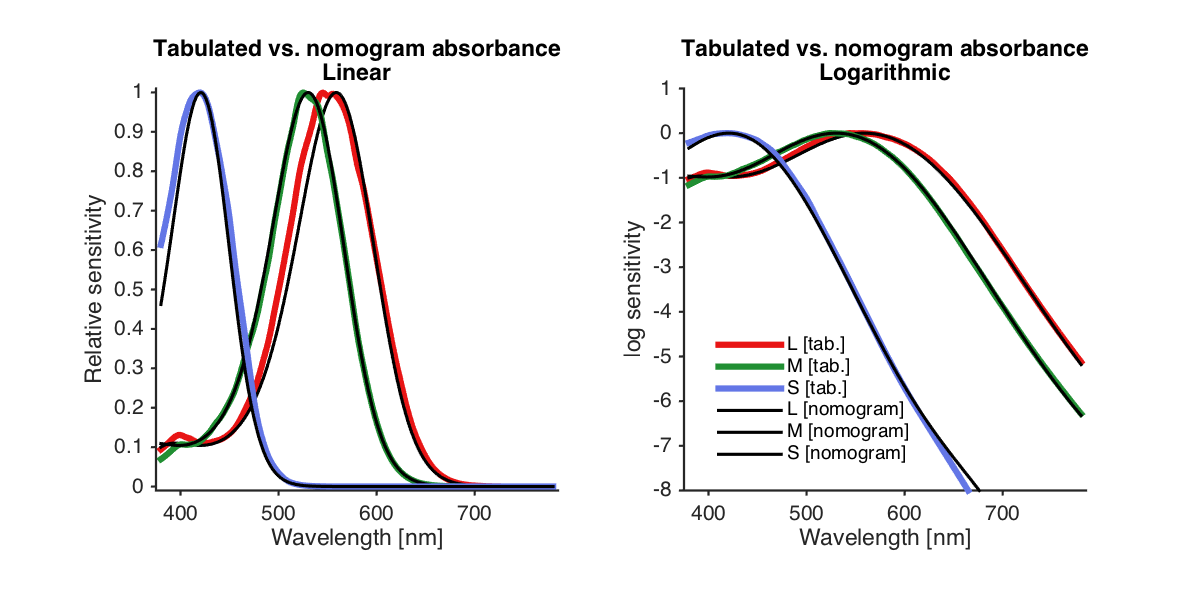
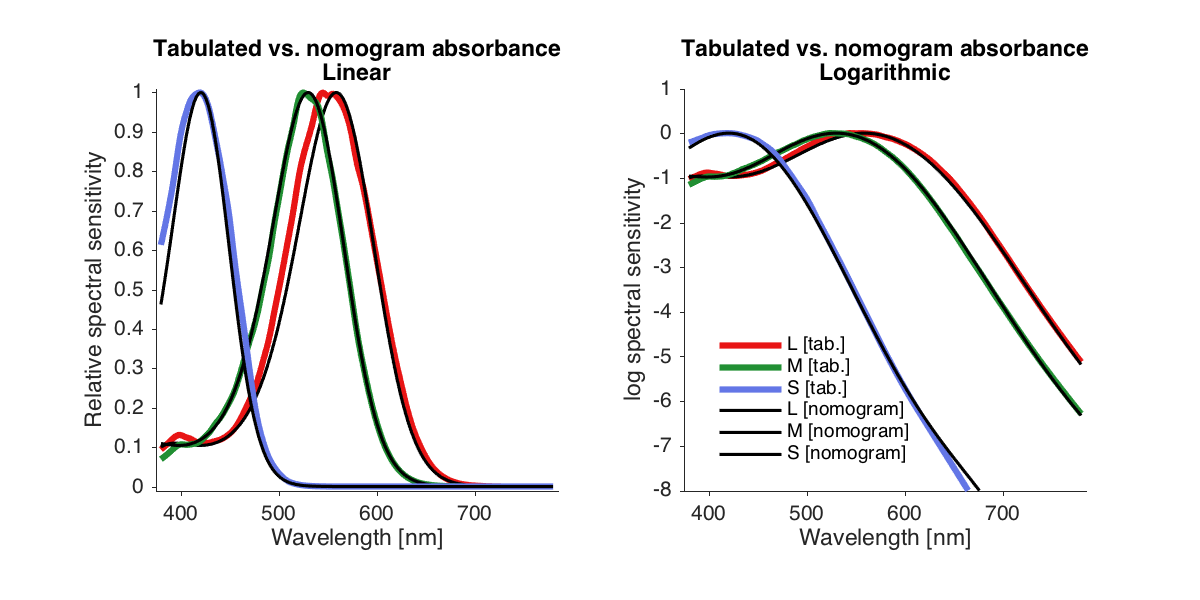
A few tweaks

diff --git a/Nomograms/ShiftNomogramTest.m b/Nomograms/ShiftNomogramTest.m
@@ -9,7 +9,7 @@ S = [380 2 201]; wls = SToWls(S);
 
 %% Stockman-Sharpe tabulated vs. nomogram
 % Check accordance of tabulated Stockman-Sharpe pigment absorbance and
-% fitted nomogram. The second panel corresponds to Fig. 21 in Stockman &
+% fitted nomogram. The second panel corresponds to Fig. 12 in Stockman &
 % Sharpe (2000).
 
 % Get Stockman-Sharpe tabulated absorbance
@@ -43,14 +43,17 @@ end
 pbaspect([1 1 1]);
 set(gca, 'TickDir', 'out'); box off;
 xlim([375 785]); ylim([-0.01 1.01]);
-xlabel('Wavelength [nm]'); ylabel('Relative sensitivity');
+xlabel('Wavelength [nm]'); ylabel('Relative spectral sensitivity');
 title({'Tabulated vs. nomogram absorbance' 'Linear'});
 
-% Compare this one with Stockman & Sharpe 2000, Figure 12.  The deviation
+% Compare this one with Stockman & Sharpe (2000), Fig. 12.  The deviation
 % looks a little larger here but their plot has those huge points which
 % make it hard to see the differences.  Note that in our tabular S cone
 % absorbance, we linear extrapolate at long wavelengths just to keep code
-% from crashing when it doesn't find the wavelength sampling acorss cones.
+% from crashing when it doesn't find the wavelength sampling across cones.
+%
+% Note that the axis in Stockman & Sharpe (2000), Fig. 12, is in log
+% wavelength.
 subplot(1, 2, 2);
 hold on;
 for ii = 1:3
@@ -62,11 +65,11 @@ legend([h1 h2], 'L [tab.]', 'M [tab.]', 'S [tab.]', 'L [nomogram]', 'M [nomogram
     'Location', 'SouthWest'); legend boxoff;
 set(gca, 'TickDir', 'out'); box off;
 xlim([375 785]); ylim([-8 1]);
-xlabel('Wavelength [nm]'); ylabel('log sensitivity');
+xlabel('Wavelength [nm]'); ylabel('log spectral sensitivity');
 title({'Tabulated vs. nomogram absorbance' 'Logarithmic'})
 
-set(gcf, 'PaperPosition', [0 0 8 4]); %Position plot at left hand corner with width 8 and height 5.
-set(gcf, 'PaperSize', [8 4]); %Set the paper to have width 8 and height 5.
+set(gcf, 'PaperPosition', [0 0 8 4]); % Position plot at left hand corner with width 8 and height 4.
+set(gcf, 'PaperSize', [8 4]); % Set the paper to have width 8 and height 4.
 saveas(gcf, 'StockmanSharpe_TabulatedVsNomogramLMSFundamentals.png', 'png');
 
 %% Plot the densities as a function of wavenumber normalized to the maximum wavenumber
@@ -96,7 +99,15 @@ for ii = 1:3
    wavenumberNorm(ii, :) = wavenumber/wavenumber(maxIdx(ii)); 
 end
 
+
+% Normalize the wave number
+for ii = 1:3
+   logFrequencyNorm(ii, :) = log10(wls) - log10(wls(maxIdx(ii))); 
+end
+
 figNormalizedWaveNum = figure;
+% Normalized wave number
+subplot(1, 2, 1);
 hold on;
 % Plot in this normalized axis
 for ii = 1:3
@@ -107,8 +118,25 @@ pbaspect([1 1 1]);
 legend(h1, 'L [tab.]', 'M [tab.]', 'S [tab.]'); legend boxoff;
 set(gca, 'TickDir', 'out'); box off;
 xlim([0.5 1.5]); ylim([-0.01 1.01]);
-xlabel('Normalized wavenumber [nm^{-1}]'); ylabel('Relative sensitivity');
+xlabel('Normalized wavenumber [nm^{-1}]'); ylabel('Relative spectral sensitivity');
 title({'Stockman-Sharpe (2000) pigment absorbances' 'Normalized wavenumber representation'});
-set(gcf, 'PaperPosition', [0 0 4 4]); %Position plot at left hand corner with width 8 and height 5.
-set(gcf, 'PaperSize', [4 4]); %Set the paper to have width 8 and height 5.
-saveas(gcf, 'StockmanSharpe_NormalizedWaveNumber.png', 'png');
+
+% Log frequency
+subplot(1, 2, 2);
+hold on;
+% Plot in this normalized axis
+for ii = 1:3
+   h1(ii) = plot(logFrequencyNorm(ii, :), T_StockmanSharpeAbsorbance(ii, :), 'Color', theLMSCols(ii, :), 'LineWidth', 2);
+end
+plot([0 0], [-0.01 1.01], '--k');
+pbaspect([1 1 1]);
+legend(h1, 'L [tab.]', 'M [tab.]', 'S [tab.]'); legend boxoff;
+set(gca, 'TickDir', 'out'); box off;
+xlim([-0.3 0.3]); ylim([-0.01 1.01]);
+xlabel('Normalized log wavelength [log nm]'); ylabel('Relative spectral sensitivity');
+title({'Stockman-Sharpe (2000) pigment absorbances' 'Normalized log wavelength representation'});
+
+
+set(gcf, 'PaperPosition', [0 0 8 4]); % Position plot at left hand corner with width 8 and height 4.
+set(gcf, 'PaperSize', [8 4]); % Set the paper to have width 8 and height 4.
+saveas(gcf, 'StockmanSharpe_NormalizedWaveNumberAndLogFrequency.png', 'png');
